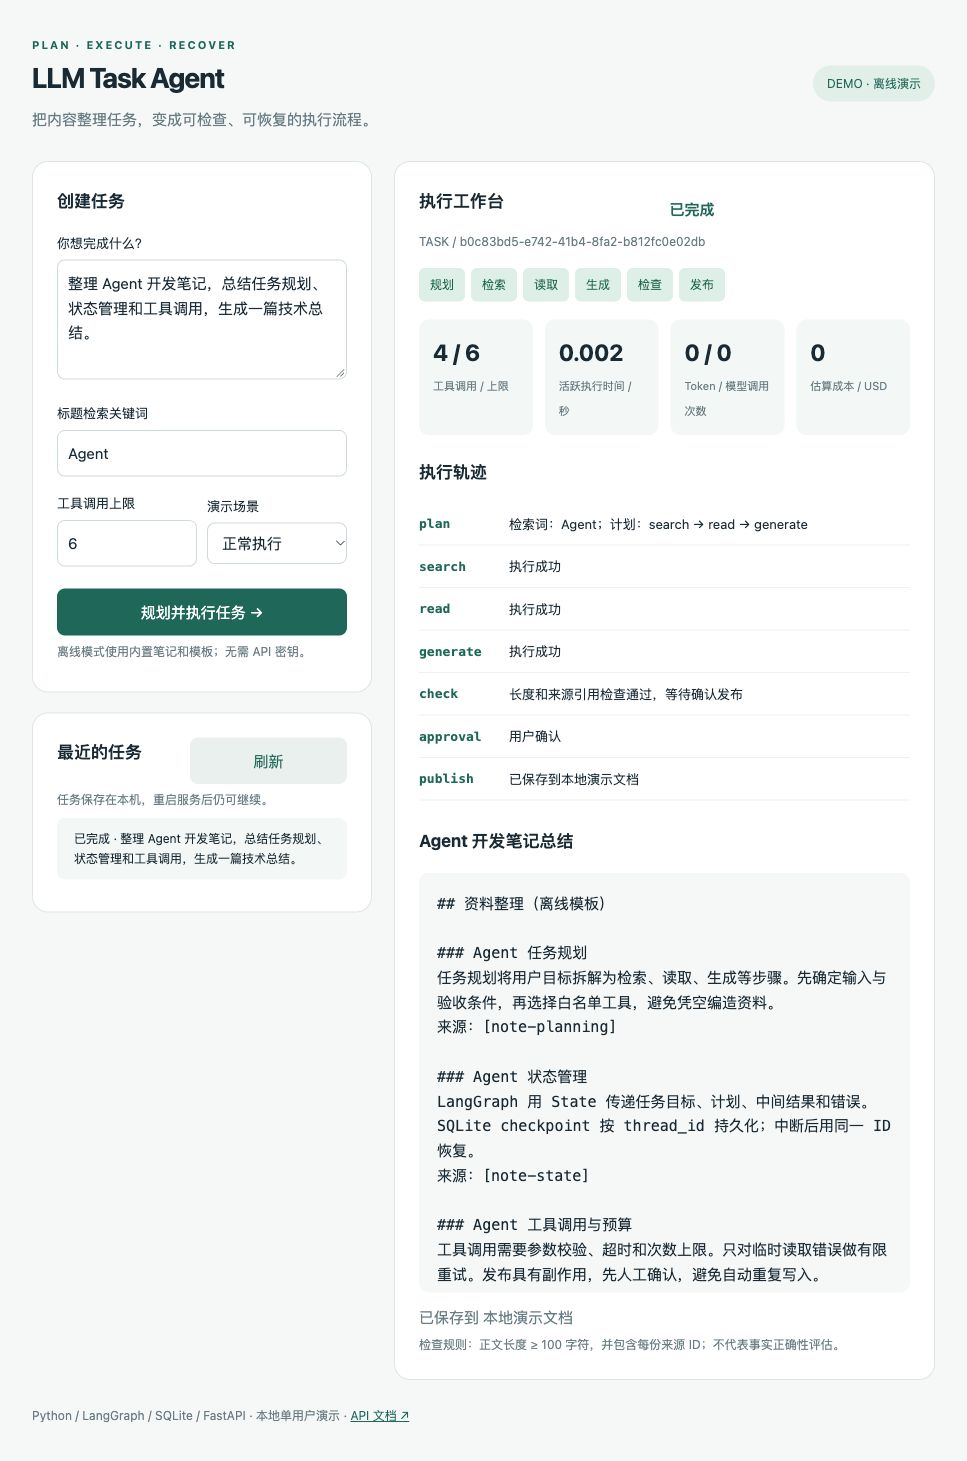
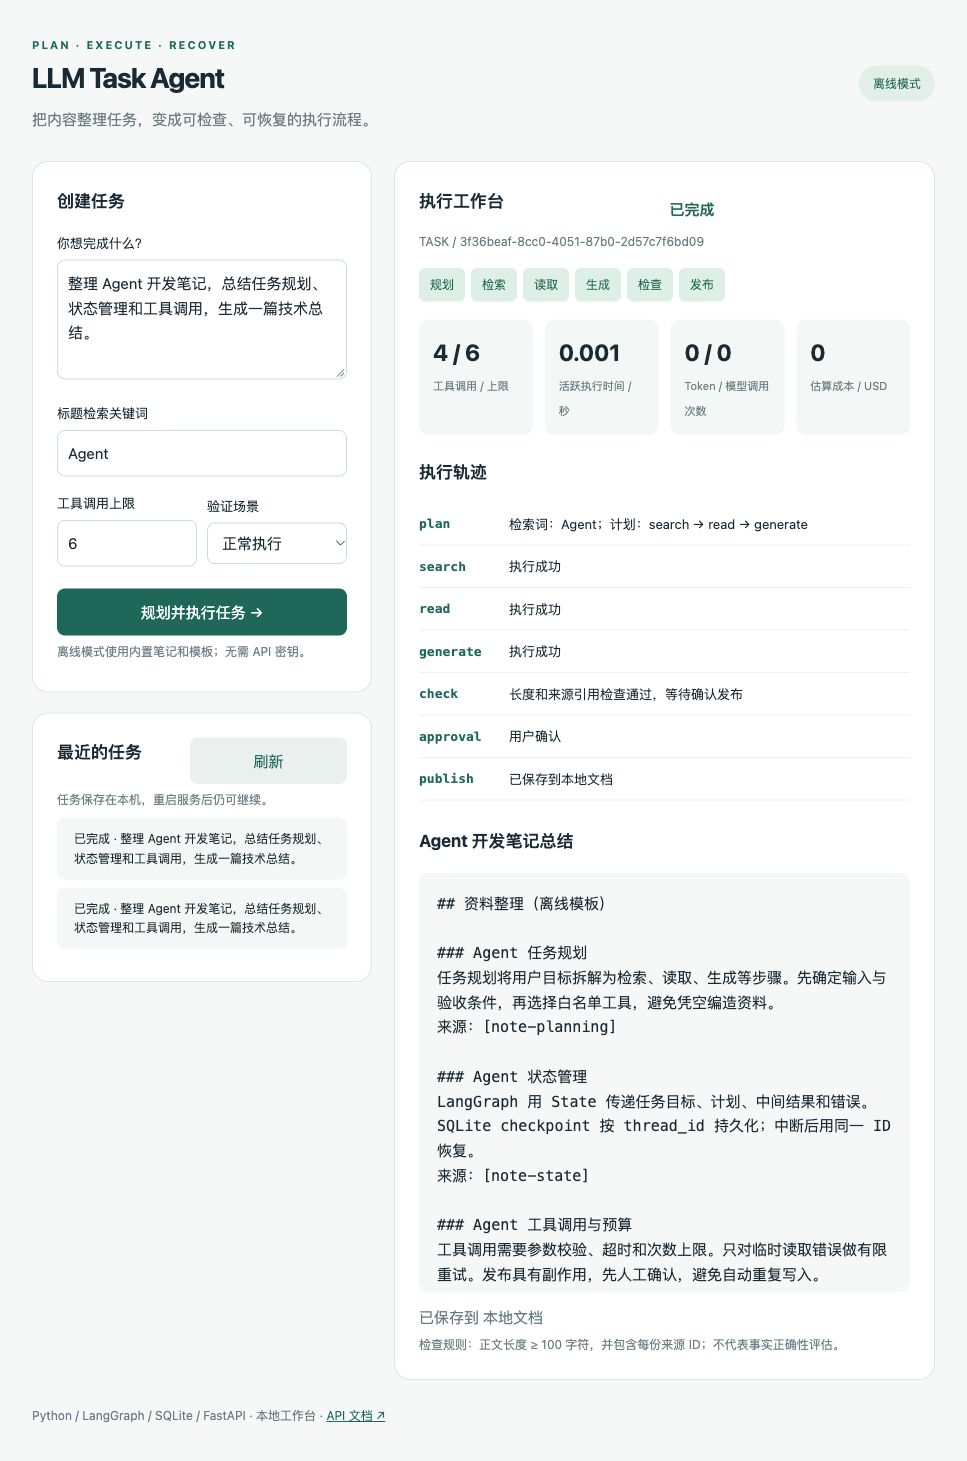
docs: remove recruiting and demo labels from product presentation

diff --git a/app/static/index.html b/app/static/index.html
@@ -1,5 +1,5 @@
 <!doctype html>
-<html lang="zh-CN"><head><meta charset="utf-8"><meta name="viewport" content="width=device-width,initial-scale=1"><title>LLM Task Agent · Demo</title>
+<html lang="zh-CN"><head><meta charset="utf-8"><meta name="viewport" content="width=device-width,initial-scale=1"><title>LLM Task Agent</title>
 <style>
 :root{color-scheme:light;--ink:#172b35;--muted:#677c83;--line:#dce5e6;--green:#146859}*{box-sizing:border-box}body{margin:0;background:#f5f8f7;color:var(--ink);font:15px/1.65 -apple-system,BlinkMacSystemFont,"Segoe UI",sans-serif}main{max-width:1280px;margin:auto;padding:36px 32px}header{display:flex;justify-content:space-between;align-items:center;margin-bottom:30px}h1{font-size:28px;letter-spacing:-1px;margin:0}h2{font-size:17px;margin:0 0 18px}.eyebrow{font-size:11px;letter-spacing:2px;color:var(--green);font-weight:700}p{color:var(--muted);margin:6px 0 0}.badge{padding:8px 14px;border-radius:30px;background:#e1efe9;color:var(--green);font-size:12px}.layout{display:grid;grid-template-columns:340px 1fr;gap:22px}.card{background:white;border:1px solid var(--line);border-radius:16px;padding:24px;margin-bottom:20px}.small{font-size:12px;color:var(--muted)}label{display:block;font-size:13px;margin:16px 0 6px}textarea,input,select{font:inherit;width:100%;border:1px solid #cddbdd;border-radius:8px;padding:10px;color:var(--ink);background:#fff}textarea{min-height:120px;resize:vertical}button{font:inherit;border:0;border-radius:8px;background:var(--green);color:white;padding:11px 17px;cursor:pointer}button:disabled{opacity:.5;cursor:wait}button.secondary{background:#eaf0ee;color:var(--green)}.start{width:100%;margin-top:22px}.row{display:flex;gap:10px;align-items:center}.row>*{flex:1}.metrics{display:grid;grid-template-columns:repeat(4,1fr);gap:12px;margin:18px 0 22px}.metric{padding:14px;background:#f3f7f5;border-radius:10px}.metric strong{display:block;font-size:23px}.metric span{font-size:11px;color:var(--muted)}.pipeline{display:flex;gap:6px;flex-wrap:wrap;margin:16px 0}.stage{font-size:12px;border-radius:6px;padding:7px 11px;background:#edf2f1;color:var(--muted)}.stage.done{background:#dcefe7;color:#16664d}.status{font-weight:600;color:var(--green)}.trace{padding:10px 0;border-bottom:1px solid #edf1ef;display:grid;grid-template-columns:80px 1fr;gap:10px;font-size:13px}.trace b{font-family:monospace;color:var(--green)}pre{white-space:pre-wrap;overflow-wrap:anywhere;font:14px/1.85 inherit;background:#f6f8f7;padding:18px;border-radius:10px;max-height:420px;overflow:auto;margin:12px 0}#error{color:#ac3d31;white-space:pre-wrap}.history{display:block;width:100%;text-align:left;color:var(--ink);background:#f3f7f5;font-size:12px;margin:8px 0;overflow-wrap:anywhere}.approval{background:#eef7f2;padding:16px;border:1px solid #cae3d5;border-radius:10px;margin-top:16px}.empty{text-align:center;padding:70px 20px;color:var(--muted)}a{color:var(--green)}[hidden]{display:none!important}#busy{font-size:13px;color:var(--green)}@media(max-width:850px){main{padding:22px 16px}.layout{grid-template-columns:1fr}.metrics{grid-template-columns:repeat(2,1fr)}header{align-items:flex-start;gap:10px}h1{font-size:23px}}
 </style></head>
@@ -8,7 +8,7 @@
 <div class="layout"><aside><section class="card"><h2>创建任务</h2><form id="form">
 <label for="goal">你想完成什么？</label><textarea id="goal" required minlength="2" maxlength="2000">整理 Agent 开发笔记，总结任务规划、状态管理和工具调用，生成一篇技术总结。</textarea>
 <label for="query">标题检索关键词</label><input id="query" value="Agent" maxlength="100">
-<div class="row"><div><label for="budget">工具调用上限</label><input id="budget" type="number" value="6" min="1" max="12"></div><div><label for="scenario">演示场景</label><select id="scenario"><option value="normal">正常执行</option><option value="transient_search">首次检索超时</option><option value="empty_draft">首次草稿不合格</option></select></div></div>
+<div class="row"><div><label for="budget">工具调用上限</label><input id="budget" type="number" value="6" min="1" max="12"></div><div><label for="scenario">验证场景</label><select id="scenario"><option value="normal">正常执行</option><option value="transient_search">首次检索超时</option><option value="empty_draft">首次草稿不合格</option></select></div></div>
 <button class="start" id="start">规划并执行任务 →</button><p class="small" id="modeNote">离线模式使用内置笔记和模板；无需 API 密钥。</p>
 </form><p id="busy" role="status" hidden>正在执行任务，请稍候…</p><p id="error" role="alert"></p></section>
 <section class="card"><div class="row"><h2>最近的任务</h2><button class="secondary" id="refresh" type="button">刷新</button></div><p class="small">任务保存在本机，重启服务后仍可继续。</p><div id="history"></div></section></aside>
@@ -19,7 +19,7 @@
 <h2>执行轨迹</h2><div id="trace"></div><p id="taskError" role="alert" style="color:#ac3d31"></p>
 <div id="approval" class="approval" hidden><b>草稿已保存，等待你的确认</b><p class="small" id="destination"></p><div class="row" style="margin-top:12px"><button id="approve">确认发布并恢复执行</button><button class="secondary" id="cancel">取消发布</button></div></div>
 <h2 style="margin-top:26px" id="draftTitle">输出草稿</h2><pre id="draft"></pre><p id="published"></p><p class="small">检查规则：正文长度 ≥ 100 字符，并包含每份来源 ID；不代表事实正确性评估。</p></div></article></div>
-<p class="small">Python / LangGraph / SQLite / FastAPI · 本地单用户演示 · <a href="/docs" target="_blank" rel="noopener">API 文档 ↗</a></p>
+<p class="small">Python / LangGraph / SQLite / FastAPI · 本地工作台 · <a href="/docs" target="_blank" rel="noopener">API 文档 ↗</a></p>
 </main><script>
 const $=id=>document.getElementById(id);let current=null;let locked=false;
 const names={running:'执行中',repairing:'修正中',awaiting_approval:'等待确认',approved:'已确认',completed:'已完成',failed:'已停止',cancelled:'已取消'};
@@ -28,10 +28,10 @@ async function action(fn){if(locked)return;locked=true;$('error').textContent=''
 function render(s){current=s.task_id;$('empty').hidden=true;$('result').hidden=false;$('taskId').textContent='TASK / '+s.task_id;$('status').textContent=names[s.status]||s.status;$('calls').textContent=`${s.tool_calls||0} / ${s.max_tool_calls||0}`;$('duration').textContent=(s.active_seconds||0).toFixed(3);$('tokens').textContent=`${(s.input_tokens||0)+(s.output_tokens||0)} / ${s.llm_calls||0}`;$('cost').textContent=s.estimated_cost_usd===null?'未配置':s.estimated_cost_usd===0?'0':s.estimated_cost_usd.toFixed(6);$('draft').textContent=s.draft||'尚未生成草稿';$('draftTitle').textContent=s.plan?.title||'输出草稿';$('taskError').textContent=s.error||'';
 $('trace').replaceChildren();for(const t of s.trace||[]){const el=document.createElement('div');el.className='trace';const b=document.createElement('b');b.textContent=t.node;const span=document.createElement('span');span.textContent=t.detail;el.append(b,span);$('trace').append(el)}
 $('pipeline').replaceChildren();for(const [n,label] of [['plan','规划'],['search','检索'],['read','读取'],['generate','生成'],['check','检查'],['publish','发布']]){const el=document.createElement('span');el.className='stage'+((s.trace||[]).some(t=>t.node===n&&(/成功|通过|已保存|检索词/.test(t.detail)))?' done':'');el.textContent=label;$('pipeline').append(el)}
-$('approval').hidden=s.status!=='awaiting_approval';$('destination').textContent=s.mode==='demo'?'确认后保存为本地演示文档。可先重启服务，再从历史任务恢复。':'确认后将真实写入配置的 Notion 父页面。';$('published').replaceChildren();if(s.publication){$('published').textContent='已保存到 '+s.publication.destination;if(s.publication.url&&s.publication.url.startsWith('https://')){const a=document.createElement('a');a.href=s.publication.url;a.textContent=' · 打开页面 ↗';a.target='_blank';a.rel='noopener';$('published').append(a)}}}
+$('approval').hidden=s.status!=='awaiting_approval';$('destination').textContent=s.mode==='demo'?'确认后保存为本地文档。可先重启服务，再从历史任务恢复。':'确认后将真实写入配置的 Notion 父页面。';$('published').replaceChildren();if(s.publication){$('published').textContent='已保存到 '+s.publication.destination;if(s.publication.url&&s.publication.url.startsWith('https://')){const a=document.createElement('a');a.href=s.publication.url;a.textContent=' · 打开页面 ↗';a.target='_blank';a.rel='noopener';$('published').append(a)}}}
 async function history(){const list=await api('/api/tasks');$('history').replaceChildren();for(const s of list){const b=document.createElement('button');b.type='button';b.className='history';b.textContent=`${names[s.status]||s.status} · ${s.goal||s.task_id}`;b.onclick=()=>action(async()=>render(await api('/api/tasks/'+s.task_id)));$('history').append(b)}}
 $('form').onsubmit=e=>{e.preventDefault();action(async()=>{render(await api('/api/tasks',{method:'POST',headers:{'Content-Type':'application/json'},body:JSON.stringify({goal:$('goal').value,query:$('query').value,max_tool_calls:Number($('budget').value),scenario:$('scenario').value})}));await history()})};
 async function resume(approved){await action(async()=>{render(await api('/api/tasks/'+current+'/resume',{method:'POST',headers:{'Content-Type':'application/json'},body:JSON.stringify({approved})}));await history()})}
 $('approve').onclick=()=>resume(true);$('cancel').onclick=()=>resume(false);$('refresh').onclick=()=>action(history);
-action(async()=>{const h=await api('/api/health');$('mode').textContent=h.mode==='demo'?'DEMO · 离线演示':'LIVE · 真实接口';if(h.mode==='live'){$('scenario').disabled=true;$('modeNote').textContent='真实模式会调用配置的 LLM 和 Notion；发布前需确认。'}await history()});
+action(async()=>{const h=await api('/api/health');$('mode').textContent=h.mode==='demo'?'离线模式':'真实接口模式';if(h.mode==='live'){$('scenario').disabled=true;$('modeNote').textContent='真实模式会调用配置的 LLM 和 Notion；发布前需确认。'}await history()});
 </script></body></html>

diff --git a/app/agent.py b/app/agent.py
@@ -119,7 +119,7 @@ class Agent:
         try:
             if tool == 'search':
                 if s['scenario'] == 'transient_search' and s['retry_count'] == 0:
-                    raise TimeoutError('演示注入：首次检索超时')
+                    raise TimeoutError('故障注入：首次检索超时')
                 result['pages'] = self.provider.search(s['plan']['query'])
                 if not result['pages']:
                     raise ValueError('没有匹配资料，请更换标题检索词')
@@ -164,7 +164,7 @@ class Agent:
 
     def approval(self, s):
         approved = interrupt({'message': '确认发布这份草稿？', 'title': s['plan']['title'],
-                              'destination': '本地演示文档' if self.settings.mode == 'demo'
+                              'destination': '本地文档' if self.settings.mode == 'demo'
                               else self.settings.notion_parent_id})
         return {'status': 'approved' if approved is True else 'cancelled',
                 'trace': self.event(s, 'approval', '用户确认' if approved is True else '用户取消')}

diff --git a/app/providers.py b/app/providers.py
@@ -116,7 +116,7 @@ class Provider:
             if existing:
                 return json.loads(existing[0])
         if self.s.mode == 'demo':
-            result = {'id': task_id, 'url': None, 'destination': '本地演示文档', 'title': title, 'body': body}
+            result = {'id': task_id, 'url': None, 'destination': '本地文档', 'title': title, 'body': body}
         else:
             # A write timeout is intentionally not auto-retried: the remote commit may have happened.
             chunks = [body[i:i + 1800] for i in range(0, len(body), 1800)]

diff --git a/app/main.py b/app/main.py
@@ -27,7 +27,7 @@ def create_app(settings=None):
         yield
         app.state.agent.close()
 
-    app = FastAPI(title='LLM Task Agent · 校招 Demo', lifespan=lifespan)
+    app = FastAPI(title='LLM Task Agent', lifespan=lifespan)
 
     @app.get('/')
     def index():

diff --git a/README.md b/README.md
@@ -1,6 +1,6 @@
 # LLM Task Agent
 
-基于 **Python / LangGraph / FastAPI / SQLite** 的内容整理 Agent 校招 Demo，提供可视化工作台、RESTful API、持久化检查点、发布前中断恢复、有限重试和固定场景评测。
+基于 **Python / LangGraph / FastAPI / SQLite** 的内容整理 Agent 原型，提供可视化工作台、RESTful API、持久化检查点、发布前中断恢复、有限重试和固定场景评测。
 
 **当前版本为最小可运行原型。** 默认离线模式无需密钥，使用内置笔记与固定模板。真实模式接入支持工具调用的 LLM API 和 Notion API，代码及模拟 HTTP 契约测试已完成，尚未使用真实账号联调。不能把离线运行结果当作真实模型能力或线上效果。
 
@@ -26,7 +26,7 @@ python -m uvicorn app.main:app --host 127.0.0.1 --port 8000
 5. 选择“首次检索超时”，创建新任务，展示一次重试；选择“首次草稿不合格”，展示检查后的有限修正。
 6. 把工具调用上限改为 `1`，展示预算耗尽后停止执行；检索词改为不存在的主题，展示无资料时停止而不生成内容。
 
-详细讲解见 [演示与面试说明](DEMO_GUIDE.md)。
+详细讲解见 [使用与架构说明](DEMO_GUIDE.md)。
 
 ## 实现范围
 
@@ -37,7 +37,7 @@ python -m uvicorn app.main:app --host 127.0.0.1 --port 8000
 | State / Context | 目标、计划、资料、草稿、计数、轨迹和错误通过 State 传递；SqliteSaver 按 thread_id 保存检查点 |
 | 中断与恢复 | 发布前调用 interrupt；重启后以同一 task_id 和 Command(resume=...) 继续执行，已完成的检索与生成不会重跑 |
 | 失败处理 | 临时读取/生成错误最多重试一次；正文与引用不合格最多修正一次；总工具调用次数有上限 |
-| 发布 | 用户确认后写入本地演示文档或 Notion 普通父页面下的新子页面 |
+| 发布 | 用户确认后写入本地文档或 Notion 普通父页面下的新子页面 |
 | 可观测性 | 执行轨迹、逻辑工具调用数、模型请求数、Token、活跃耗时、可配置单价的成本估算 |
 | 服务与部署 | FastAPI API、本地网页、Dockerfile 和 Compose；Docker 构建未在本次环境验证 |
 | 评测 | 6 个离线固定场景、12 项自动化测试；结果保存在 evaluation/results.json |

diff --git a/DEMO_GUIDE.md b/DEMO_GUIDE.md
@@ -1,10 +1,10 @@
-# 校招演示与面试说明
+# 使用与架构说明
 
 ## 先准备
 
-打开本地工作台，确认右上角显示“DEMO · 离线演示”。这版演示不需要申请 API 密钥。默认检索词使用 `Agent`，工具调用上限设为 `6`。
+打开本地工作台，确认右上角显示“离线模式”。这版演示不需要申请 API 密钥。默认检索词使用 `Agent`，工具调用上限设为 `6`。
 
-## 可以这样开场
+## 项目概述
 
 “这个项目是一个基于 LangGraph 的内容整理 Agent 原型。我把任务拆成规划、检索、读取、生成、检查和发布几个环节，重点实现了状态保存、发布前中断恢复、有限重试和调用预算。今天先用内置资料演示工作流稳定性。真实 LLM 和 Notion 的适配器已经编写，并通过模拟 HTTP 契约测试，实际账号联调还没有完成。”
 
@@ -52,7 +52,7 @@
 
 这是一版本地单用户原型。真实账号尚未联调，Notion 读取范围有限，规划步骤受限，任务同步串行执行，恢复 API 只暴露发布确认中断点。下一步应先完成真实接口端到端联调，再完善规划灵活性和语义评测。
 
-## 与当前代码相符的简历表述
+## 当前功能范围
 
 基于 Python、LangGraph、FastAPI 与 SQLite 实现内容整理 Agent 原型，围绕资料检索、读取、草稿生成、结果检查及确认发布构建多步骤工作流；实现发布前状态持久化与中断恢复、有限重试、一次草稿修正和工具调用预算。提供可视化演示页面、RESTful API、LLM / Notion 适配器与 Docker 配置，通过 12 项自动化测试和 6 个离线固定场景验证。真实 LLM / Notion 账号联调及模型效果评测待完成。
 
